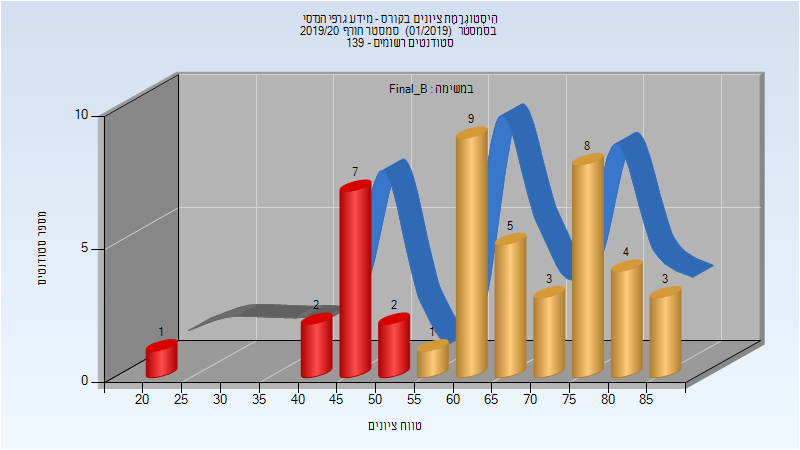
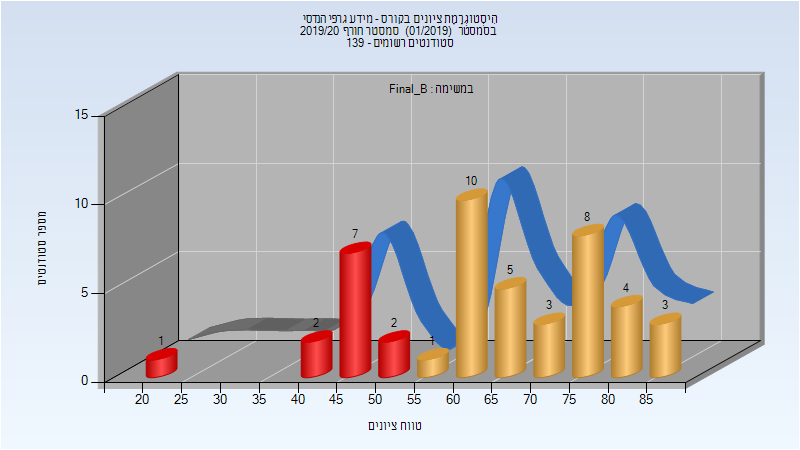
Deploy michael-maltsev/technion-histograms to github.com/michael-maltsev/technion-histograms.git:gh-pages

diff --git a/014008/index.html b/014008/index.html
@@ -1107,13 +1107,13 @@
 </thead>
 <tbody>
 <tr>
-<td>45</td>
-<td>33/12</td>
-<td>73</td>
+<td>46</td>
+<td>34/12</td>
+<td>74</td>
 <td>22</td>
 <td>88</td>
-<td>64.978</td>
-<td>67</td>
+<td>64.957</td>
+<td>65.5</td>
 </tr>
 </tbody>
 </table>

diff --git a/014008/README.md b/014008/README.md
@@ -347,7 +347,7 @@
 
 | סטודנטים | עברו/נכשלו | אחוז עוברים | ציון מינימלי | ציון מקסימלי | ממוצע | חציון |
 | ---- | ---- | ---- | ---- | ---- | ---- | ---- |
-| 45 | 33/12 | 73 | 22 | 88 | 64.978 | 67 |
+| 46 | 34/12 | 74 | 22 | 88 | 64.957 | 65.5 |
 
 ### סופי
 
